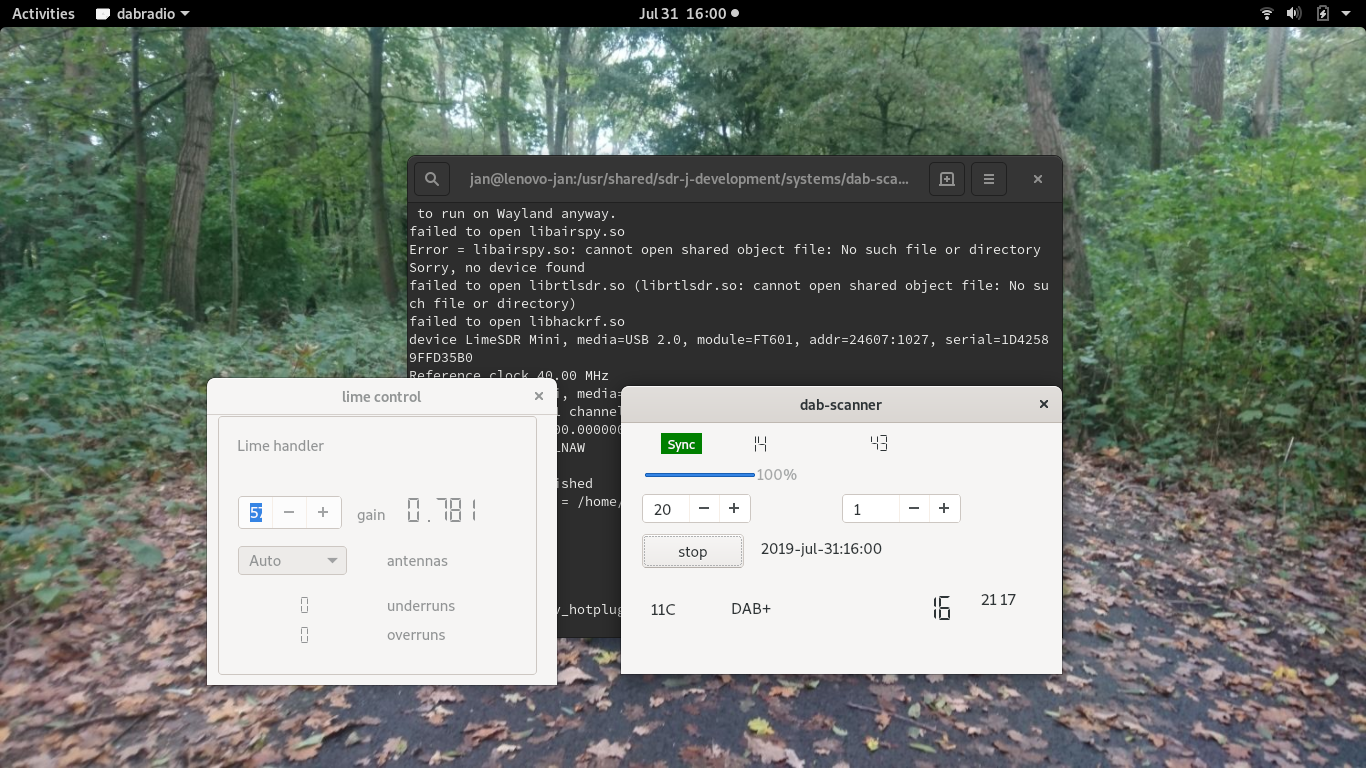
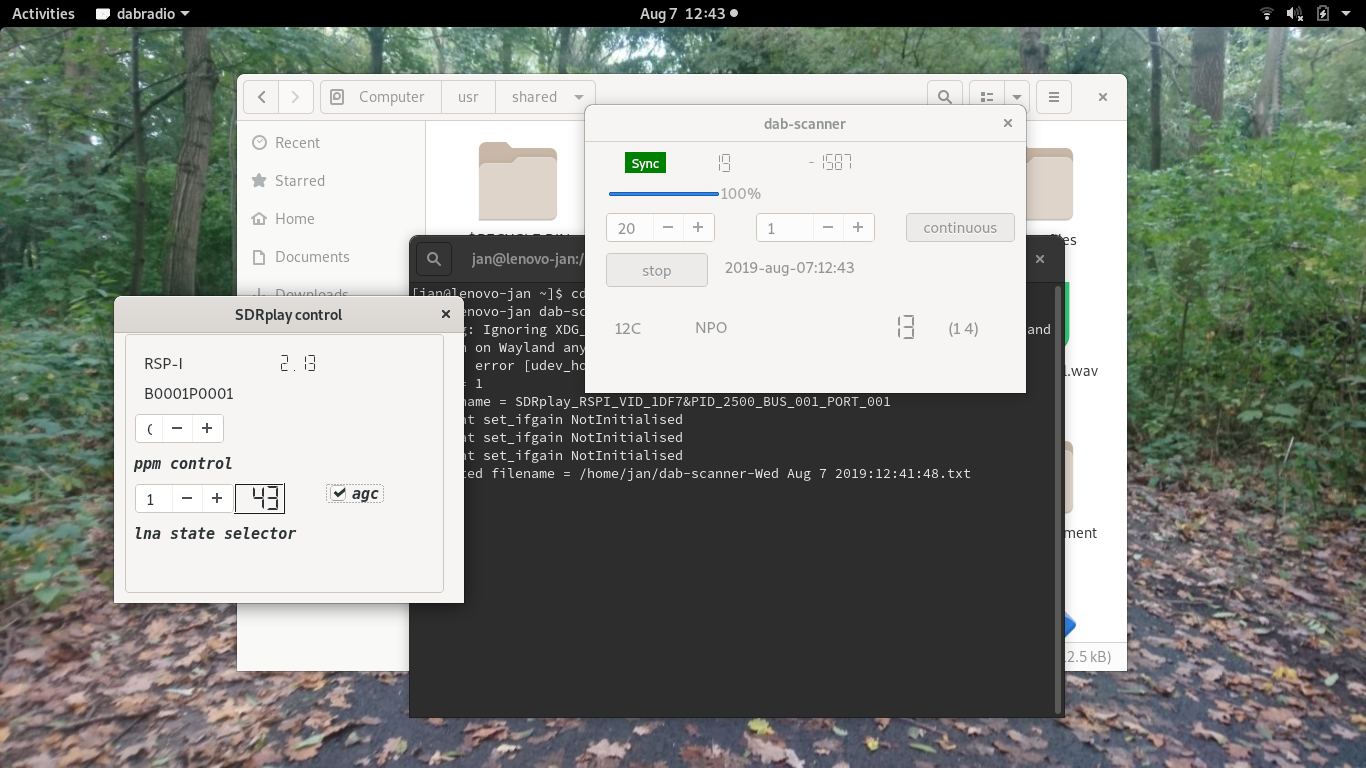
added continuous scanning button

diff --git a/radio.cpp b/radio.cpp
@@ -114,6 +114,7 @@ QString h;
 	my_dabProcessor		= NULL;
 	ficBlocks		= 0;
 	ficSuccess		= 0;
+	go_continuously		= false;
 //	
 //	and start the timer(s)
 //	The displaytimer is there to show the number of
@@ -138,6 +139,8 @@ int	frequency	= theBand -> Frequency (channelNumber);
 	         this, SLOT (nextChannel_noSignal (void)));
 	connect (&channelTimer, SIGNAL (timeout (void)),
 	         this, SLOT (nextChannel_withSignal (void)));
+	connect (continuousButton, SIGNAL (clicked (void)),
+	         this, SLOT (handle_continuousButton (void)));
 	channelTimer. start (channelDelay -> value () * 1000);
 	my_dabProcessor -> start (frequency);
 	running. store (true);
@@ -171,7 +174,8 @@ int	frequency;
 	channelNumber . store (channelNumber. load () + 1);
 	if (channelNumber. load () >= theBand -> channels ()) {
 	   channelNumber . store (0);
-	   nrCycles	-> setValue (nrCycles -> value () - 1);
+	   if (!go_continuously)
+	      nrCycles	-> setValue (nrCycles -> value () - 1);
 	   if (nrCycles -> value () < 1) {
 	      running. store (false);
 	      fclose (fileP);
@@ -210,7 +214,8 @@ int	frequency;
 	if (channelNumber. load () >= theBand -> channels ()) {
 	   fprintf (stderr, "channelNumber = %d\n", channelNumber. load ());
 	   channelNumber . store (0);
-	   nrCycles	-> setValue (nrCycles -> value () - 1);
+	   if (!go_continuously)
+	      nrCycles	-> setValue (nrCycles -> value () - 1);
 	   if (nrCycles -> value () < 1) {
 	      running. store (false);
 	      fclose (fileP);
@@ -400,6 +405,8 @@ void	RadioInterface::handle_startButton (void) {
 //	handling stop
 	fclose (fileP);
 	stopScanning ();
+	go_continuously	= false;
+	continuousButton -> setText ("continuous");
 	startButton	-> setText ("start");
 }
 
@@ -471,4 +478,10 @@ char buffer [20];
 	      return;
 	tii_Value. push_back (tii);
 }
+
+void	RadioInterface::handle_continuousButton (void) {
+	go_continuously = !go_continuously;
+	continuousButton -> setText (go_continuously ? "running": "continuous");
+}
+
 

diff --git a/radio.h b/radio.h
@@ -59,6 +59,7 @@ private:
 	QSettings	*dabSettings;
 	FILE		*fileP;
 	std::atomic<int>	channelNumber;
+	bool		go_continuously;
 	int		serviceCount;
         QStringList     Services;
 	uint8_t		dabBand;
@@ -84,8 +85,6 @@ protected:
         bool    eventFilter (QObject *obj, QEvent *event);
 
 public slots:
-	void		selectDevice		(QString);
-	void		handle_startButton 	(void);
 	void		nextChannel_withSignal	(void);
 	void		nextChannel_noSignal	(void);
 	void		addtoEnsemble		(const QString &);
@@ -99,6 +98,9 @@ public slots:
 	void		show_ficSuccess		(bool);
 //	Somehow, these must be connected to the GUI
 private slots:
+	void		selectDevice		(QString);
+	void		handle_startButton 	(void);
+	void		handle_continuousButton	(void);
 	void		reset			(void);
 signals:
 	void		set_quality		(int);

diff --git a/README.md b/README.md
@@ -60,6 +60,25 @@ button will become a "start" button again.
 The GUI further shows during processing a red/green field, where green indicates that at least time synchonization could be achieved, an indicator for the 
 Signal Noise Ratio, and an indicator for the frequency offset required to achieve frequency synchronization.
 
+--------------------------------------------------------------------------
+Continuous scanning
+---------------------------------------------------------------------------
+
+Based on feedback, a button was added for continuous scanning. While
+a spinbox is on the GUI on which a fixed amount of scanning cycles
+can be set (and changed during operation), there was a need for
+a mode where the software is not limited in the number of scans.
+
+For this, the button labeled "continuous" is added. 
+If the button is touched, the text on the button changes to "running",
+and running will continue until 
+
+* the button is touched again, after which operation continues based on
+the setting of the spinbox indicating the amount of cycles to go, or
+* the "stop" button is touched.
+
+In both cases, writing output continues until the cycling is stopped.
+
 ---------------------------------------------------------------------------
 Selecting an input device
 ---------------------------------------------------------------------------
